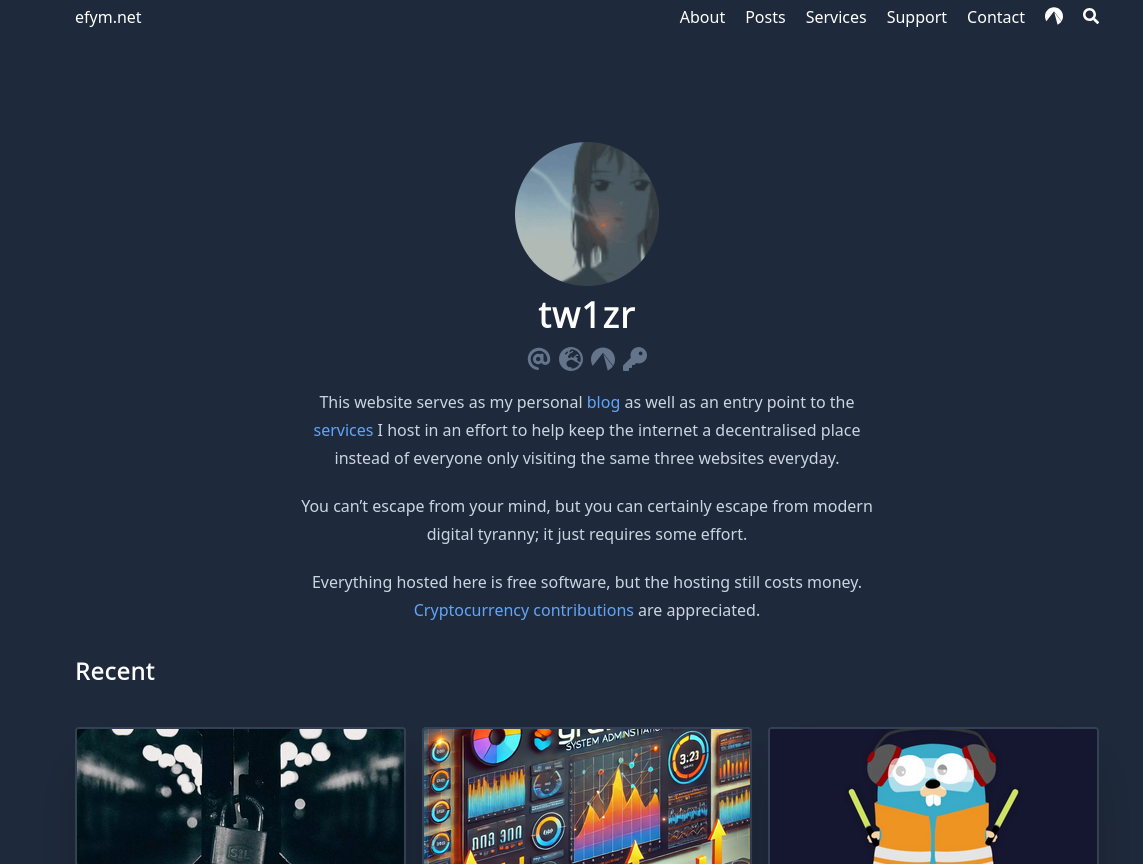
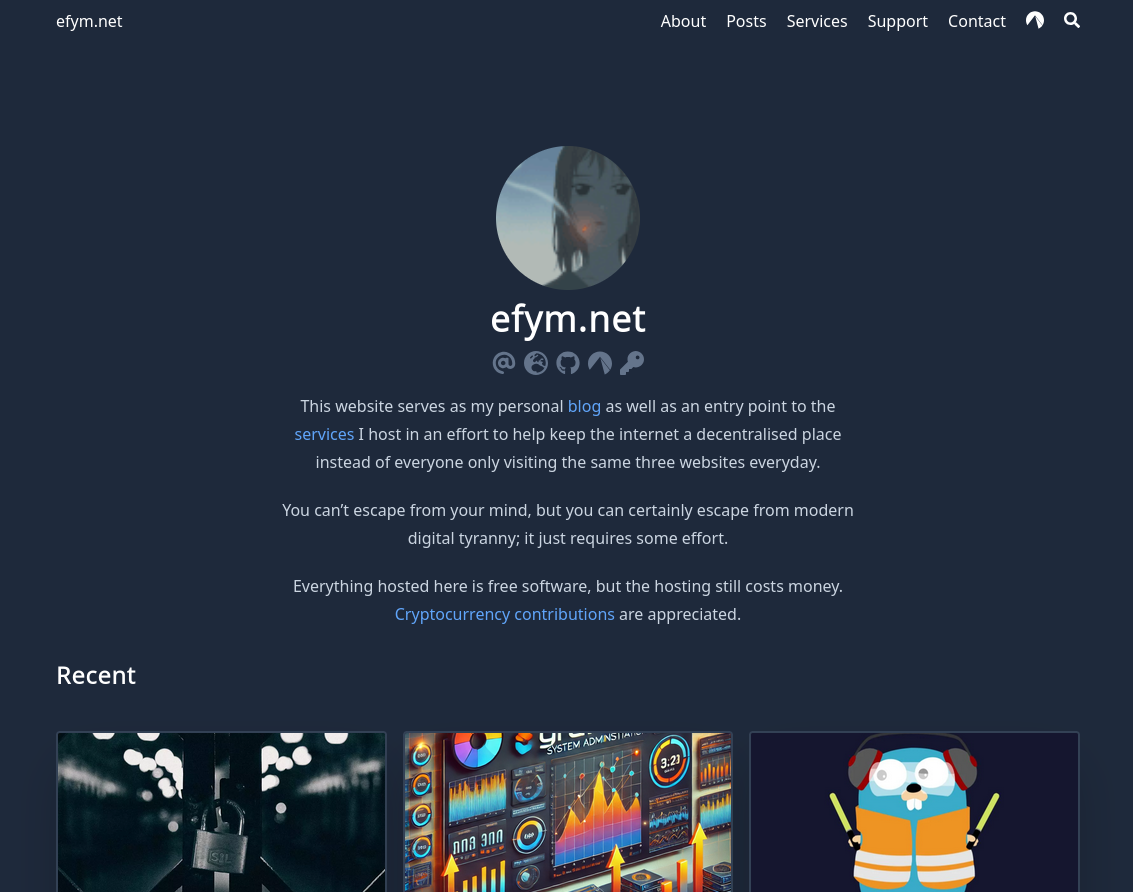
replace a bunch of pictures

diff --git a/content/about/index.md b/content/about/index.md
@@ -34,14 +34,12 @@ These are my primary tools, though my toolkit is always expanding.
 Here are a few screenshots showcasing my setup during various activities:
 
 {{< gallery >}}
-  <img src="01.webp" class="grid-w33" />
-  <img src="02.webp" class="grid-w33" />
-  <img src="03.webp" class="grid-w33" />
-  <img src="04.webp" class="grid-w33" />
-  <img src="05.webp" class="grid-w33" />
-  <img src="06.webp" class="grid-w33" />
-  <img src="07.webp" class="grid-w33" />
-  <img src="08.webp" class="grid-w33" />
+  <img src="01.jpg" class="grid-w33" />
+  <img src="02.jpg" class="grid-w33" />
+  <img src="03.jpg" class="grid-w33" />
+  <img src="04.jpg" class="grid-w33" />
+  <img src="05.jpg" class="grid-w33" />
+  <img src="06.jpg" class="grid-w33" />
 {{< /gallery >}}
 
 I prefer the command line for its efficiency and precision. However, for tasks that demand graphical interfaces, like photo or video editing, I opt for tools like [GIMP](https://gimp.org), [OpenShot](https://openshot.org), [ImageMagick](https://imagemagick.org), and [FFmpeg](https://ffmpeg.org).
